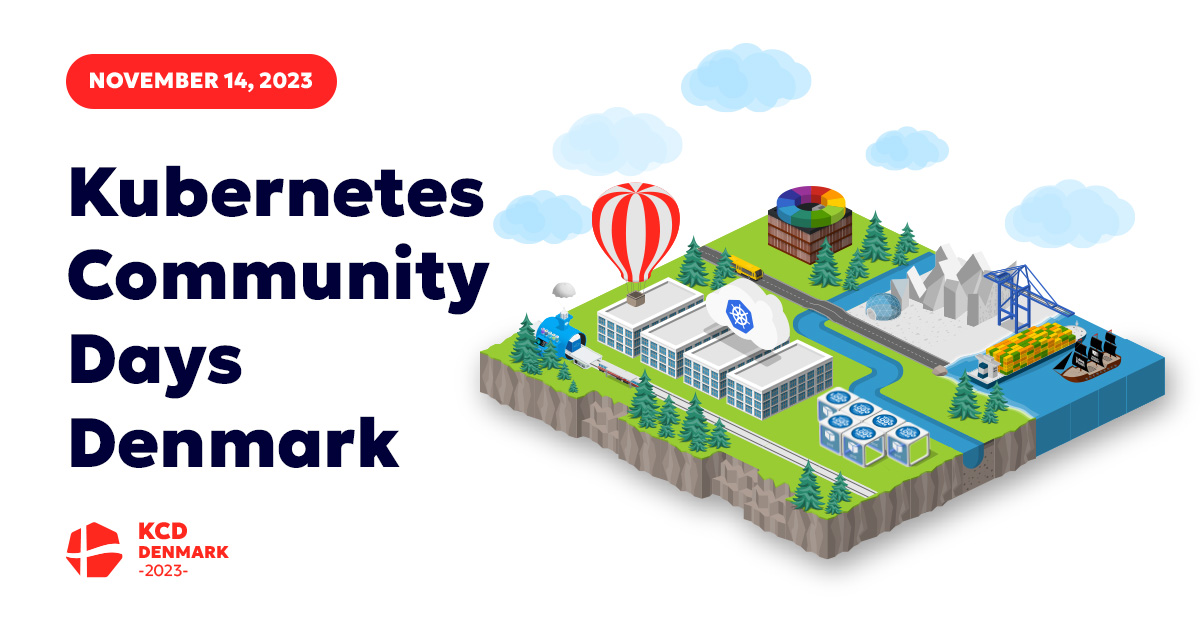
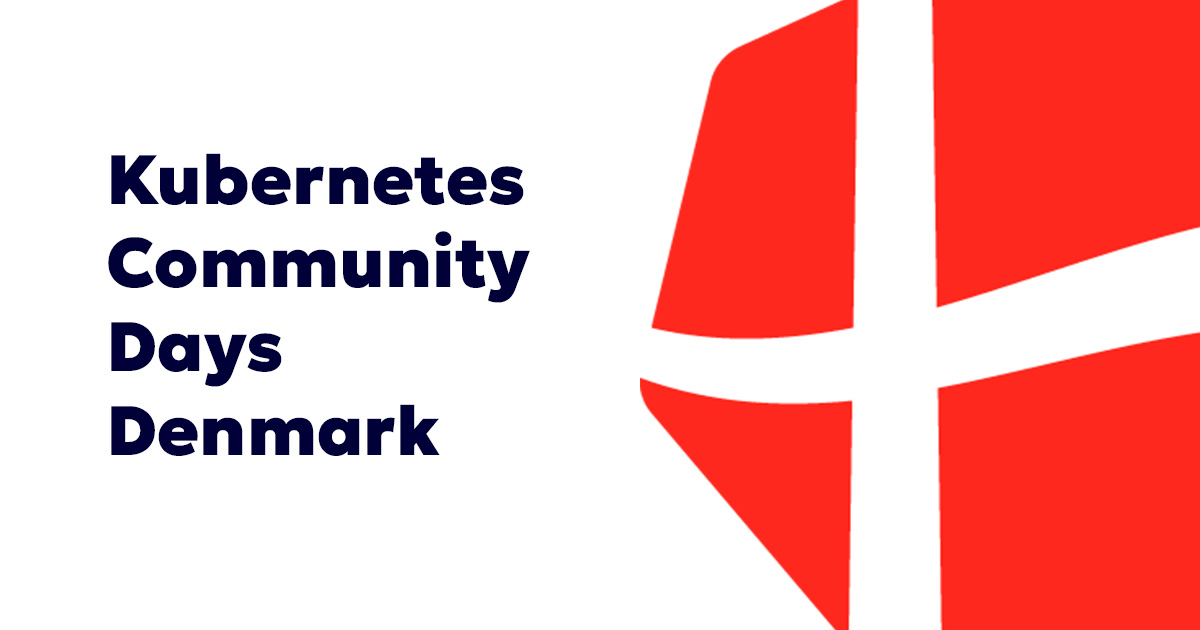
2024 Preperation (#118)
* Bump npm dependencies

* Update copy on main pages

* Update sponsors

* Update copy

* Cleanup from 2023
Remove outdated menu links
Remove last years info from welcome page

* Updated SEO image

---------

diff --git a/src/constants/menus.js b/src/constants/menus.js
@@ -2,13 +2,13 @@ import LINKS from 'constants/links.js';
 
 const MENUS = {
   header: [
-    { text: 'Speakers', ...LINKS.speakers },
-    { text: 'Schedule', ...LINKS.schedule },
-    { text: 'Workshops', ...LINKS.workshops },
+    // { text: 'Speakers', ...LINKS.speakers },
+    { text: 'Archive', ...LINKS.schedule },
+    // { text: 'Workshops', ...LINKS.workshops },
     // { text: 'Call for Proposal', ...LINKS.proposal },
     // { text: 'Getting There', ...LINKS.gettingthere },
-    { text: 'Venue', ...LINKS.venue },
-    { text: 'Sponsors', ...LINKS.sponsors },
+    // { text: 'Venue', ...LINKS.venue },
+    // { text: 'Sponsors', ...LINKS.sponsors },
   ],
   footer: [
     { text: 'Code of Conduct', ...LINKS.conduct },
@@ -17,13 +17,13 @@ const MENUS = {
     { text: 'Privacy Policy', ...LINKS.privacy },
   ],
   mobile: [
-    { text: 'Speakers', ...LINKS.speakers },
-    { text: 'Schedule', ...LINKS.schedule },
-    { text: 'Workshops', ...LINKS.workshops },
+    // { text: 'Speakers', ...LINKS.speakers },
+    { text: 'Archive', ...LINKS.schedule },
+    // { text: 'Workshops', ...LINKS.workshops },
     // { text: 'Call for Proposal', ...LINKS.proposal },
     // { text: 'Getting There', ...LINKS.gettingthere },
-    { text: 'Venue', ...LINKS.venue },
-    { text: 'Sponsors', ...LINKS.sponsors },
+    // { text: 'Venue', ...LINKS.venue },
+    // { text: 'Sponsors', ...LINKS.sponsors },
   ],
 };
 

diff --git a/src/pages/index.jsx b/src/pages/index.jsx
@@ -16,9 +16,9 @@ const HomePage = ({ location }) => (
     <Hero />
     <Welcome />
     {/* <Proposal /> */}
-    <Speakers location={location} />
+    {/* {<Speakers location={location} />} */}
     {/*<Schedule /> */}
-    {<Sponsors />}
+    {/* <Sponsors />*/}
     {/* <Partners /> */}
   </Layout>
 );
